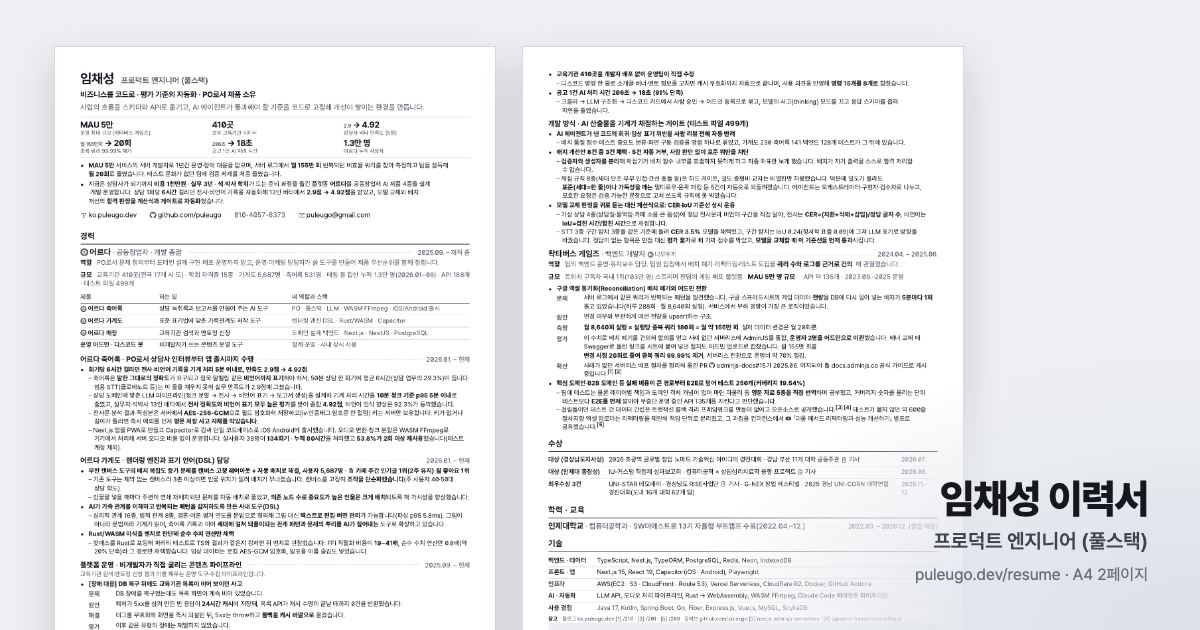
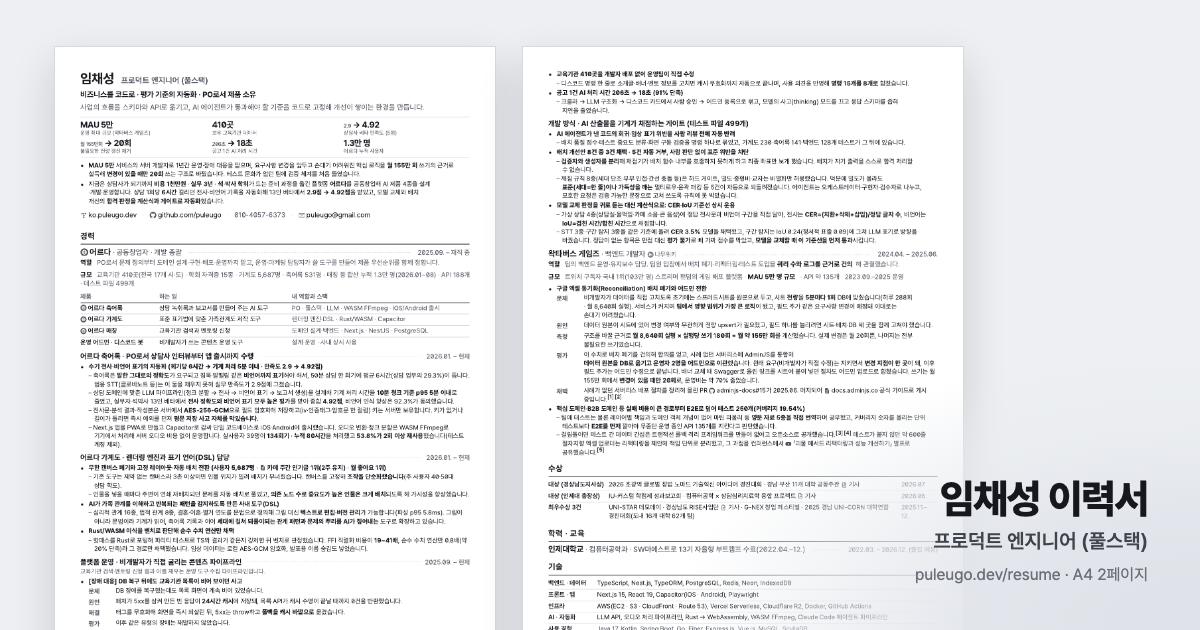
fix: 배치 케이스를 유지보수성 관점으로 재서술하고 항목 제목을 키워드형으로
- 확산 → 채택으로 라벨 변경
- 왁타버스 배치: 성능 최적화가 아니라 요구사항 변경을 앞두고
  변경 지점을 한 곳으로 되돌린 일로 재서술. 스프레드시트를 원본으로 둔
  초기 요구(비개발자 직접 수정)를 배경으로 명시
- 상단 지표 문구를 '불필요한 전량 갱신 제거'로 교체
- 축어록·가계도 항목 제목을 '무엇을 무엇으로 바꿨는가 + 성과' 형태로 정리

Claude-Session: https://claude.ai/code/session_01XPm84a9ZQrw2tx4vvMDftN

Changed region(s): [[0.0617, 0.4524, 0.4008, 1.0], [0.4317, 0.4524, 0.8017, 1.0], [0.0617, 0.2413, 0.37, 0.3016]]

diff --git a/resume/index.html b/resume/index.html
@@ -141,7 +141,7 @@
 	body.paged .references { font-size: 7.5pt; margin-top: 4px; }
 	body.paged .system-line { font-size: 8.2pt; margin: 0 0 2px; }
 	body.paged table.data-table { font-size: 8.6pt; }
-	body.paged table.data-table th, body.paged table.data-table td { padding: 2.5px 8px 2.5px 0; }
+	body.paged table.data-table th, body.paged table.data-table td { padding: 2px 8px 2px 0; }
 	body.paged li { margin-bottom: 1.5px; }
 
 	/* header */
@@ -275,7 +275,7 @@
 		.references { font-size: 7.2pt; margin-top: 2px; }
 		.system-line { font-size: 8.2pt; margin: 0 0 2px; }
 		table.data-table { font-size: 8.6pt; }
-		table.data-table th, table.data-table td { padding: 2.5px 8px 2.5px 0; }
+		table.data-table th, table.data-table td { padding: 2px 8px 2px 0; }
 		h2 { margin: 12px 0 5px; }
 		[data-tip]:hover::after, #link-card { display: none !important; }
 		li { margin-bottom: 1.5px; }
@@ -331,12 +331,12 @@
 		<li><b>MAU 5만</b><span>운영 최대 규모 (왁타버스 게임즈)</span></li>
 		<li><b>410곳</b><span>보유 <t data-x="수련기관">교육기관</t> 데이터</span></li>
 		<li><b><span class="from">2.9</span> → 4.92</b><span>상담사 베타 만족도 (5점)</span></li>
-		<li><b><span class="from">월 155만회</span> → 20회</b><span>중복 쿼리 99.99% 제거</span></li>
+		<li><b><span class="from">월 155만회</span> → 20회</b><span>불필요한 전량 갱신 제거</span></li>
 		<li><b><span class="from">206초</span> → 18초</b><span>공고 1건 AI 처리 시간</span></li>
 		<li><b>1.3만 명</b><span>어르다 누적 사용자</span></li>
 	</ul>
 	<ul class="highlights">
-		<li><b>MAU 5만</b> 서비스의 서버 개발자로 1년간 운영·장애 대응을 맡으며, 서버 로그에서 <b>월 155만 회</b> 반복되던 비효율 쿼리를 찾아 측정하고 팀을 설득해 <b>월 20회</b>로 줄였습니다. 테스트 문화가 없던 팀에 검증 체계를 처음 들였습니다.</li>
+		<li><b>MAU 5만</b> 서비스의 서버 개발자로 1년간 운영·장애 대응을 맡으며, 요구사항 변경을 앞두고 손대기 어려워진 핵심 로직을 <b>월 155만 회</b> 쓰기의 근거로 설득해 <b>변경이 있을 때만 20회</b> 쓰는 구조로 바꿨습니다. 테스트 문화가 없던 팀에 검증 체계를 처음 들였습니다.</li>
 		<li>지금은 상담사가 되기까지 <b>비용 1천만원 · 실무 3년 · 석·박사 학위</b>가 드는 준비 과정을 옮긴 플랫폼 <b>어르다</b>를 공동창업해 AI 제품 4종을 설계·개발·운영합니다. 상담 1회당 <b>6시간</b> 걸리던 전사·비언어 기록을 자동화해 13인 베타에서 <b>2.9점 → 4.92점</b>을 받았고, 모델 교체와 배치 개선의 <b>합격 판정을 계산식과 게이트로 자동화</b>했습니다.</li>
 	</ul>
 	<div class="contact">
@@ -369,7 +369,7 @@
 	<div class="work">
 		<strong>어르다 축어록 · PO로서 상담사 인터뷰부터 앱 출시까지 수행<span class="leader" aria-hidden="true"></span><span class="period">2026.01. – 현재</span></strong>
 		<ul>
-			<li class="task"><b>회기당 <b>6시간</b> 걸리던 전사·비언어 기록을 기계 처리 <b>5분 이내</b>로, 만족도 2.9점 → 4.92점</b>
+			<li class="task"><b>수기 전사·비언어 표기의 자동화 (회기당 <b>6시간 → 기계 처리 5분 이내</b> · 만족도 <b>2.9 → 4.92점</b>)</b>
 				<ul class="how">
 					<li>축어록은 <b>말한 그대로의 정확도</b>가 요구되고 침묵·말떨림 같은 <b>비언어까지 표기</b>해야 해서, 50분 상담 한 회기에 평균 6시간(상담 업무의 29.3%)이 듭니다. 범용 STT(클로바노트 등)는 이 둘을 채우지 못해 실무 만족도가 2.9점에 그쳤습니다.</li>
 					<li>상담 도메인에 맞춘 LLM 파이프라인(청크 분할 → 전사 → 비언어 표기 → 보고서 생성)을 설계해 기계 처리 시간을 <b>10분 청크 기준 p95 5분 이내</b>로 줄였고, 실무자·석박사 13인 베타에서 <b>전사 정확도와 비언어 표기 모두 높은 평가</b>를 받아 종합 <b>4.92점</b>, 비언어 인식 향상은 92.3%가 동의했습니다.</li>
@@ -382,7 +382,7 @@
 	<div class="work">
 		<strong>어르다 가계도 · 렌더링 엔진과 표기 언어(DSL) 담당<span class="leader" aria-hidden="true"></span><span class="period">2026.01. – 현재</span></strong>
 		<ul>
-			<li class="task"><b>무한 캔버스 도구의 배치 복잡도 증가 문제를 <b>캔버스 고정 레이아웃 + 자동 배치</b>로 해결, 사용자 5,687명 · <a href="https://cafe.naver.com/icpg2013/99144" target="_blank" rel="noopener" data-tip="네이버 카페 인기글 게시물. 임베드가 막혀 새 탭에서 열립니다" data-card="https://cafe.naver.com/icpg2013/99144"><svg class="icon"><use href="#i-doc-b"/></svg>카페 주간 인기글 1위</a>(2주 유지)·월 좋아요 1위</b>
+			<li class="task"><b>무한 캔버스 폐기와 고정 레이아웃·자동 배치 전환 (사용자 <b>5,687명</b> · <a href="https://cafe.naver.com/icpg2013/99144" target="_blank" rel="noopener" data-tip="네이버 카페 인기글 게시물. 임베드가 막혀 새 탭에서 열립니다" data-card="https://cafe.naver.com/icpg2013/99144"><svg class="icon"><use href="#i-doc-b"/></svg>카페 주간 인기글 1위</a>(2주 유지) · 월 좋아요 1위)</b>
 				<ul class="how">
 					<li>기존 도구는 제약 없는 캔버스라 3촌 이상이면 인물 위치가 밀려 배치가 무너졌습니다. 캔버스를 고정해 <b>조작을 단순화했습니다</b>(주 사용자 40·50대 상담 학도).</li>
 					<li>인물을 넣을 때마다 주변이 연쇄 재배치되던 문제를 자동 배치로 풀었고, <b>의존 노드 수로 중요도가 높은 인물은 크게 배치</b>되도록 해 가시성을 향상했습니다.</li>
@@ -451,11 +451,11 @@
 	<ul>
 		<li class="case-study"><b>구글 엑셀 동기화(Reconciliation) 배치 폐기와 어드민 전환</b>
 				<dl>
-					<dt>문제</dt><dd>서버 로그에서 같은 쿼리가 반복되는 패턴을 발견했습니다. 구글 스프레드시트의 게임 데이터 <b>전량</b>을 DB에 다시 밀어 넣는 배치가 <b>5분마다 1회</b> 돌고 있었습니다(하루 288회 · 월 8,640회 실행). 서비스에서 부하 영향이 가장 큰 로직이었습니다.</dd>
-					<dt>원인</dt><dd>변경 여부와 무관하게 매번 전량을 upsert하는 구조.</dd>
-					<dt>측정</dt><dd><b>월 8,640회 실행 × 실행당 중복 쿼리 180회 = 월 약 155만 회</b>. 실제 데이터 변경은 월 20회뿐.</dd>
-					<dt>평가</dt><dd>이 수치로 배치 폐기를 건의해 합의를 얻고 사례 없던 서버리스에 AdminJS를 통합, <b>운영자 2명을 어드민으로 이관</b>했습니다. 배너 교체 때 Swagger로 올린 링크를 시트에 붙여 넣던 절차도 어드민 업로드로 합쳤습니다. 월 155만 회를 <b>변경 시점 20회로 줄여 중복 쿼리 99.99% 제거</b>, 서버리스 전환으로 운영비 약 70% 절감.</dd>
-					<dt>확산</dt><dd>사례가 없던 서버리스 배포 절차를 정리해 올린 PR <a href="https://github.com/SoftwareBrothers/adminjs-docs/pull/15" target="_blank" rel="noopener" data-card="https://github.com/SoftwareBrothers/adminjs-docs/pull/15"><svg class="icon"><use href="#i-github"/></svg>adminjs-docs#15</a>가 2025.06. 머지되어 <a href="https://docs.adminjs.co/deployment/serverless" data-preview data-tip="AdminJS 공식 문서 미리보기 (Deployment / Serverless)" data-card="https://docs.adminjs.co/deployment/serverless"><svg class="icon"><use href="#i-doc-b"/></svg>docs.adminjs.co</a> 공식 가이드로 게시 중입니다.<sup class="footnote"><a href="https://ko.puleugo.dev/216" data-preview data-tip="블로그 「[NestJS] AdminJS 프로덕션 배포하기」" data-card="https://ko.puleugo.dev/216">1</a></sup><sup class="footnote"><a href="https://github.com/puleugo/nestjs-adminjs-serverless" target="_blank" rel="noopener" data-tip="예제 코드 nestjs-adminjs-serverless. 새 탭에서 열립니다" data-card="https://github.com/puleugo/nestjs-adminjs-serverless">2</a></sup></dd>
+					<dt>문제</dt><dd>비개발자가 데이터를 직접 고치도록 초기에는 스프레드시트를 원본으로 두고, 시트 <b>전량</b>을 <b>5분마다 1회</b> DB에 맞췄습니다(하루 288회 · 월 8,640회 실행). 서비스가 커지며 <b>팀에서 영향 범위가 가장 큰 로직</b>이 됐고, 필드 추가 같은 요구사항 변경이 예정돼 이대로는 손대기 어려웠습니다.</dd>
+					<dt>원인</dt><dd>데이터 원본이 시트에 있어 변경 여부와 무관하게 전량 upsert가 필요했고, 필드 하나를 늘리려면 시트·배치·DB 세 곳을 함께 고쳐야 했습니다.</dd>
+					<dt>측정</dt><dd>구조를 바꿀 근거로 <b>월 8,640회 실행 × 실행당 쓰기 180회 = 월 약 155만 회</b>를 계산했습니다. 실제 변경은 월 20회뿐, 나머지는 전부 불필요한 쓰기였습니다.</dd>
+					<dt>평가</dt><dd>이 수치로 배치 폐기를 건의해 합의를 얻고, 사례 없던 서버리스에 AdminJS를 통합해 <b>데이터 원본을 DB로 옮기고 운영자 2명을 어드민으로 이관</b>했습니다. 원래 요구(비개발자가 직접 수정)는 지키면서 <b>변경 지점이 한 곳</b>이 돼, 이후 필드 추가는 어드민 수정으로 끝납니다. 배너 교체 때 Swagger로 올린 링크를 시트에 붙여 넣던 절차도 어드민 업로드로 합쳤습니다. 쓰기는 월 155만 회에서 <b>변경이 있을 때만 20회</b>로, 운영비는 약 70% 줄었습니다.</dd>
+					<dt>채택</dt><dd>사례가 없던 서버리스 배포 절차를 정리해 올린 PR <a href="https://github.com/SoftwareBrothers/adminjs-docs/pull/15" target="_blank" rel="noopener" data-card="https://github.com/SoftwareBrothers/adminjs-docs/pull/15"><svg class="icon"><use href="#i-github"/></svg>adminjs-docs#15</a>가 2025.06. 머지되어 <a href="https://docs.adminjs.co/deployment/serverless" data-preview data-tip="AdminJS 공식 문서 미리보기 (Deployment / Serverless)" data-card="https://docs.adminjs.co/deployment/serverless"><svg class="icon"><use href="#i-doc-b"/></svg>docs.adminjs.co</a> 공식 가이드로 게시 중입니다.<sup class="footnote"><a href="https://ko.puleugo.dev/216" data-preview data-tip="블로그 「[NestJS] AdminJS 프로덕션 배포하기」" data-card="https://ko.puleugo.dev/216">1</a></sup><sup class="footnote"><a href="https://github.com/puleugo/nestjs-adminjs-serverless" target="_blank" rel="noopener" data-tip="예제 코드 nestjs-adminjs-serverless. 새 탭에서 열립니다" data-card="https://github.com/puleugo/nestjs-adminjs-serverless">2</a></sup></dd>
 				</dl></li>
 		<li class="task"><b>핵심 도메인·B2B 도메인 등 <b>실패 비용이 큰 경로부터 E2E</b>로 덮어 테스트 250개(커버리지 19.54%)</b>
 				<ul class="how">
